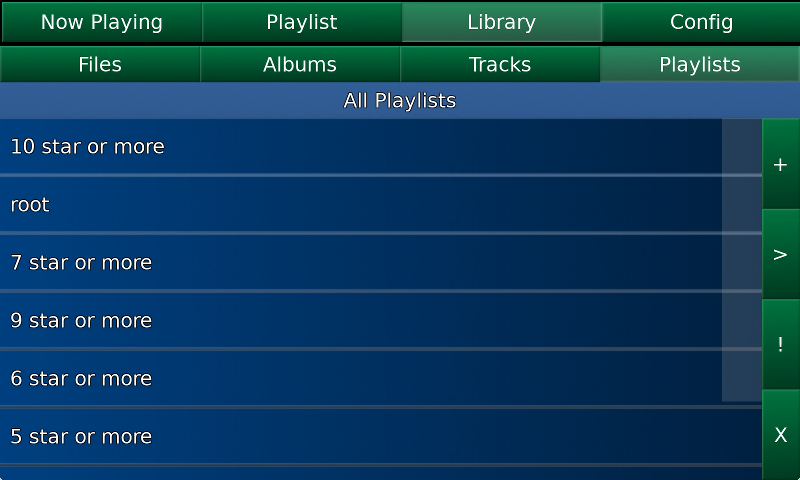
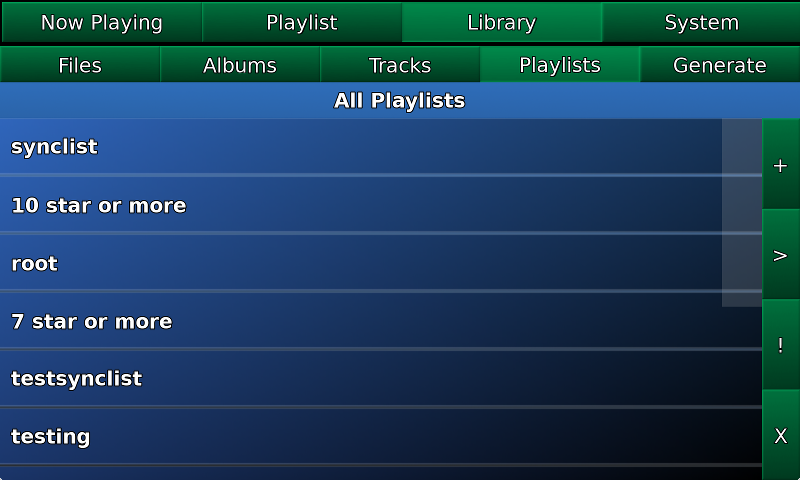
updating docs

diff --git a/docs/usingkmpcmanager.rst b/docs/usingkmpcmanager.rst
@@ -77,6 +77,40 @@ The following data is shown from left to right:
 
 Artist name and id are selectable for easy copy/pasting.
 
+Directory structure for fanart
+==============================
+
+The directory structure for fanart is as follows, with *\<fanartpath\>* as the
+root folder::
+
+  fanartpath
+  ├── 078a9376-3c04-4280-b7d7-b20e158f345d    # musicbrainz artistid
+  │   ├── __Artist Name__                     # empty file, optional
+  │   ├── artistbackground                    # player background images
+  │   │   ├── 132224.jpg                      # you can have as many
+  │   │   ├── 39392.jpg                       # as you want
+  │   │   ├── 4679.jpg                        # or none at all
+  │   │   ├── 4680.jpg                        # format is 1280x720 JPG
+  │   │   └── 7578.jpg
+  │   ├── logo                                # artist logo images
+  │   │   ├── 130819.png                      # you can have as many
+  │   │   ├── 45979.png                       # as you want
+  │   │   ├── 15469.png                       # or none at all
+  │   │   ├── 47981.png                       # format is transparent PNG
+  │   │   ├── 39562.png                       # maximum 800x310
+  │   │   └── 5624.png
+  │   └── badge                               # artist badge images
+  │       ├── 130819.png                      # you can have as many
+  │       ├── 45979.png                       # as you want
+  │       ├── 15469.png                       # or none at all
+  │       ├── 47981.png                       # format is transparent PNG
+  │       ├── 39562.png                       # squarish aspect ratio
+  │       └── 5624.png
+  └── 391c9402-6688-4c3d-8f3d-d320d31b4de9    # and so on
+      ├── __Another Artist__
+      └── logo
+          └── 154355.png
+
 Badges
 ------
 
@@ -106,11 +140,10 @@ different functions. Long-presses have been replaced by double-clicks to make
 it easier to use on the desktop. The functions of the top row of buttons are as
 follows:
 
-Generate rsync merge
-  Create a rsync file based on a combination of the 'Minimum stars' field, the
-  song ratings in mpd, and the copy_flag stickers in mpd.
-Write rsync merge
-  Finalizes the rsync file to disk and closes it.
+Generate synclist
+  Create a sync playlist based on a combination of the 'Minimum stars' field,
+  the song ratings in mpd, and the copy_flag stickers in mpd. Uses the config
+  file variable 'syncplaylist' as the name of the generated playlist.
 Generate playlist
   Generates a playlist based on the 'Minimum stars' field and saves it to the
   synchost's mpd.
@@ -128,6 +161,14 @@ To the right are three buttons, which toggle the copy_flag. '+' will set it to
 true, '-' to false, '/' will clear it. These buttons function at the directory,
 file, artist, album, and track level.
 
+**********
+System Tab
+**********
+
+.. image:: images/manager3.png
+
+This tab has two functions. Config lets you edit the config file. Exit exits.
+
 ********
 Workflow
 ********
@@ -139,13 +180,15 @@ albums so that multiple copies of the same track aren't taking up extra space.
 I'll set only unique tracks on those albums to true or clear and everything
 that exists on some other album to false.
 
-Then I generate the rsync merge based on a minimum 7-star rating. This makes
-sure that only songs I actually want to listen to end up on my car Pi, and no
-disk space is wasted with duplicate tracks. However, my home music collection
-can be complete and much more extensive.
+Then I generate the synclist based on a minimum 7-star rating. This makes sure
+that only songs I actually want to listen to end up on my car Pi, and no disk
+space is wasted with duplicate tracks. However, my home music collection can be
+complete and much more extensive.
 
-Finally, I copy the rsync merge file (it is saved in ``~/.kmpc/rsync.inc``) to
-the home folder of the ssh user on the synchost. The ``~/.ssh/config`` file is
-set up correctly on the car Pi to connect using this user. When I want to sync
-the song filesystem, fanart media, and/or song ratings, I just have to press
-the 'Sync' button in kmpc on the car Pi and everything works.
+The ``~/.ssh/config`` file is set up correctly on the car Pi to connect to the
+synchost, and it is running on the same network the car Pi connects to when I
+am at home. When I want to sync music, fanart media, and/or song ratings, I
+just have to press the 'Sync' button in kmpc on the car Pi and everything
+works. I also sometimes ssh into the car Pi and run the commandline sync
+commands instead if I know it's going to take awhile and I don't want to sit in
+the car staring at the screen.

diff --git a/docs/usingkmpc.rst b/docs/usingkmpc.rst
@@ -33,11 +33,25 @@ First is the artist name section, which is pulled from the track artist tag.
 This will either be rendered in normal text, or a logo image pulled from the
 fanart folder. If there is more than one artist, all artists will be shown.
 
-After that is the track name, then the album name, with the release year in
-brackets afterwards. This is pulled from the original year tag if it exists,
-and pulled from mpd otherwise. 
+After that is the track name, then the album name. 
 
 Under this is a smaller line detailing the upcoming artist and track.
+
+To the left in sideways text the release year is shown in []. If originalyear
+is turned on, then this value will be pulled from an mp3's 'originalyear' tag,
+and mpd's 'year' tag will be shown in {} next to it if it is different. This is
+to represent the original release year for an album versus the year it was
+remastered. If originalyear is off, only mpd's 'year' tag will be shown. See
+:ref:`configsystemsection` for details about originalyear.
+
+If advancedtitles is on, kmpc will attempt to parse the album and track names
+to make them a bit prettier. If the album name doesn't have 'EP' or '(single)'
+in it, the word 'album' will be shown in sideways text to the left of the album
+cover. Likewise, 'EP' will be shown if it is an EP and 'single' will be shown
+if it is a single. Strings in () or [] will be shown in a smaller font under
+the main title. Albums with ' / ' in them (split EPs usually) will be formatted
+with the above modifiers and split correctly. See :ref:`configsystemsection`
+for details about advancedtitles.
 
 Bottom Section
 ==============
@@ -63,7 +77,8 @@ Backlight Controls
 On the far right of the screen, there are four buttons to control the
 brightness of the Raspberry Pi touchscreen. These do nothing if the rpienable
 flag is not set to true in the config file. They change the brightness from
-brightest at the top to dimmest at the bottom.
+brightest at the top to dimmest at the bottom. See :ref:`configsystemsection`
+for details about rpienable.
 
 Playback Controls
 =================
@@ -259,6 +274,15 @@ This lists all named playlists that mpd knows about. Long-pressing on a
 playlist will replace the current playlist. You can also select one or more and
 use the buttons to the right. '+' will append them, '>' will insert them, '!'
 will clear the playlist then append them, and 'X' will delete them.
+
+Generate
+========
+
+.. image:: images/library12.png
+
+Pressing this button allows you to generate playlists based on song ratings.
+Choose the number of stars, the operation, and a name for the playlist, then
+click Generate. 
 
 ******
 System

diff --git a/docs/kivypie.rst b/docs/kivypie.rst
@@ -86,10 +86,6 @@ Step 2: Install kmpc
      sudo umount -l /tmp
      sudo mount --bind /tmp /root/tmp
 
-#. Install some dependencies::
-
-     sudo apt-get -y install sqlite3
-
 #. As of this writing, the version of pip/setuptools on KivyPie is old. Run the
    following to update::
    
@@ -105,11 +101,24 @@ Step 2: Install kmpc
 
    This will generate the default config file.
 
-#. Optional: if you want a mouse cursor to show up on the screen (in case you
-   are running with a keyboard and mouse), add the following to the *[modules]*
-   section in the file ``~/.kivy/config.ini``::
+#. Optional configuration tasks in ``~/.kivy/config.ini``:
 
-     cursor =
+   - If you want a mouse cursor to show up on the screen (in case you are
+     running with a keyboard and mouse), add the following to the *[modules]*
+     section::
+
+       cursor =
+
+   - If you don't want a little circle to show up on the screen anywhere you
+     touch, comment out this line in the *[modules]* section::
+
+       touchring = scale=0.3,alpha=0.7,show_cursor=1
+
+   - If you are getting duplicate clicks and/or keypresses with a physical
+     mouse or keyboard, comment out the following line in the *[input]*
+     section::
+
+       %(name)s = probesysfs,provider=hidinput
 
 ******************
 Step 3: Set up mpd
@@ -273,7 +282,8 @@ Once you've added some art, do the following
 #. Run::
 
      sudo chown -R $USER:audio <fanartpath>
-     sudo chmod g+w <fanartpath>
+     sudo chmod -R g+w <fanartpath>
+     sudo find <fanartpath> -type d -exec chmod g+s '{}' \;
      systemctl --user restart kmpc
 
 You should now see logos and background images for the artists that have images

diff --git a/docs/invocation.rst b/docs/invocation.rst
@@ -24,6 +24,9 @@ default Kivy options::
     -n, --newconfig  write out default config file if it doesn't exist yet
     -V, --version    print version number and exit
     --helpkivy       Print Kivy's built-in argument list
+    --sync {all,music,fanart,exportratings,importratings}
+                     run the 'sync' function with the chosen module
+                     and exit
 
 ***********
 kmpcmanager

diff --git a/CHANGELOG.rst b/CHANGELOG.rst
@@ -5,7 +5,7 @@ kmpc Change Log
 ###############
 
 ******************
-0.6.5 - 2018-02-??
+0.6.5 - 2018-02-09
 ******************
 
 - Added Config and Exit buttons to a System tab in kmpcmanager.

diff --git a/docs/config.rst b/docs/config.rst
@@ -72,6 +72,8 @@ synclocalfanartpath
   The path to the fanart folder on whatever machine ``kmpcmanager`` is running
   on.
 
+.. _configsystemsection:
+
 [system] section
 ----------------
 
